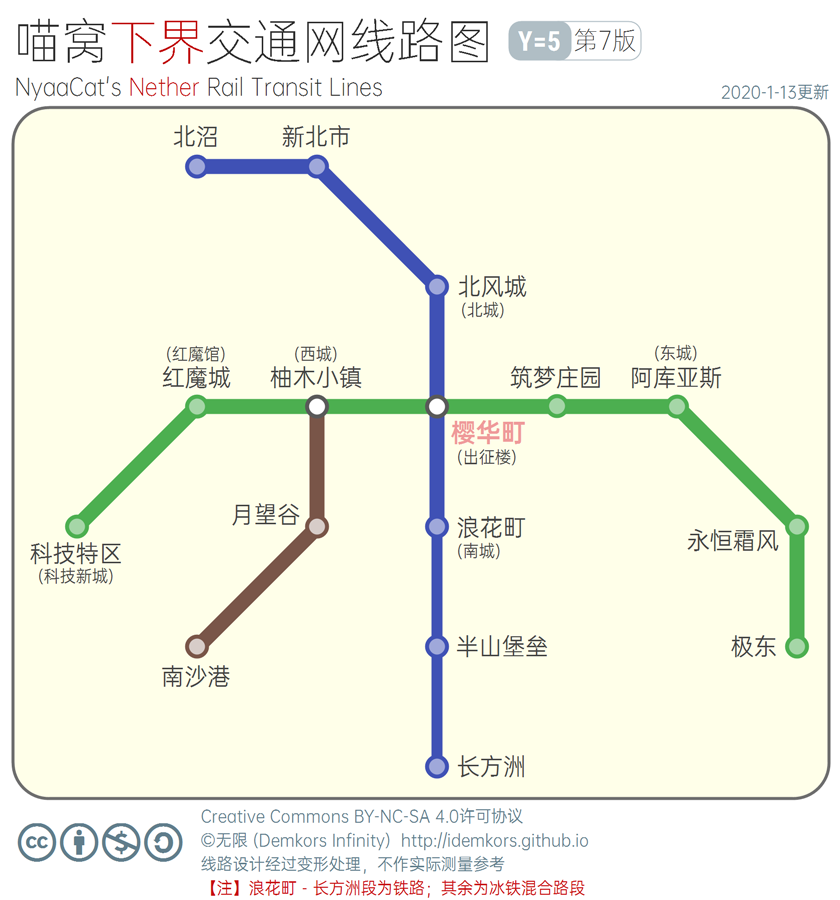
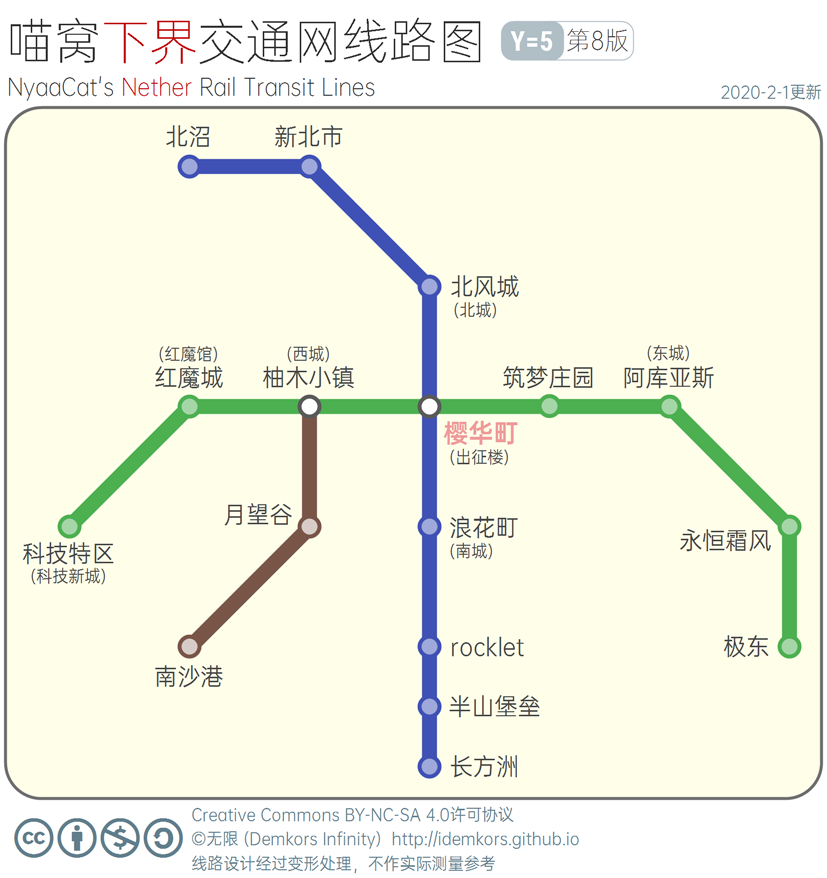
UPDATE Realms, Commands Help, rail maps, etc: 阿库亚斯 now represented as "AQUA'S"; 霖菓村 now comes subway system; identity "主城" removed from Realms List; map-nether-traffic updated; all Nether Transit Lines standardized; add /nick, /glist, etc; recent events recorded

Changed region(s): [[0.0, 0.0, 0.9976, 1.0], [0.6046, 0.0308, 0.786, 0.0615]]

diff --git a/nyaa/realms/aquas.md b/nyaa/realms/aquas.md
@@ -1,16 +1,16 @@
-# 阿库亚斯
+# AQUA'S
 
 -   **旧称：东方主城（简称“东城”）**
--   类型：主城，公共规划区
+-   类型：公共规划区
 -   范围：(1584, -172), (3162, 808)
 -   名誉城主：Cc  `Aqua_Cc`
     
 
 ## 城市简介
 
-阿库亚斯（AQUA'S）为喵窝五大主城之一，位居大神殿东方。
+AQUA'S*（读作：阿库亚斯）* 为喵窝原『五大主城』之一，位居大神殿东方，是著名的交通及文化中心。
 
-经历漫长的波折后，2018年3月10日，在水之女神 Cc·阿库娅 的诞生纪念日这一天，象征海洋与星空的东方主城重新开放。后改称现名。
+经历漫长的波折后，2018年3月10日，在水之女神 *Cc·阿库娅 `Aqua_Cc`* 的诞生纪念日这一天，象征海洋与星空的东方主城重新开放。后改称现名。
 
 ### 城市地图
 
@@ -18,7 +18,7 @@
 
 ### 海星城
 
-一日，魔法少女花灵来到了阿库亚斯北方的海域，召唤出了巨大反重力魔法阵。不久，海星城在魔法阵之上建成了。由于魔法阵的作用，建筑、花园、空中平台能够漂浮在空中。最初建造的阿库亚斯**市政厅**和**图书馆**就位于海星城内。在魔法阵的影响之下，阿库亚斯范围内还形成了数个**空中岛屿**。
+一日，魔法少女花灵来到了AQUA'S北方的海域，召唤出了巨大反重力魔法阵。不久，海星城在魔法阵之上建成了。由于魔法阵的作用，建筑、花园、空中平台能够漂浮在空中。最初建造的AQUA'S**市政厅**和**图书馆**就位于海星城内。在魔法阵的影响之下，AQUA'S范围内还形成了数个**空中岛屿**。
 
 海星城的建筑为幻想风格，多具有超常规的建筑结构。由于魔法阵的作用过于强大，建筑物的底部可能会因受力过大而碎裂。
 
@@ -28,7 +28,7 @@
 
 ### 米娜希尔港
 
-由海星城沿天梯一路走下，眼前就是阿库亚斯最为繁荣的港口——米娜希尔港。曾经的米娜希尔港只是位于南侧的小镇，但随着海星城的建立，越来越多的观光客来到了这里，从而极大促进了小镇与外邦的经济往来。随后建成的**风水商桥**则成为了整个港口的中心。曾经小镇的民居如今则作为**斯卡菠萝集市**而依旧繁荣，各家均会在一层开设商铺来吸引过往的旅客。
+由海星城沿天梯一路走下，眼前就是AQUA'S最为繁荣的港口——米娜希尔港。曾经的米娜希尔港只是位于南侧的小镇，但随着海星城的建立，越来越多的观光客来到了这里，从而极大促进了小镇与外邦的经济往来。随后建成的**风水商桥**则成为了整个港口的中心。曾经小镇的民居如今则作为**斯卡菠萝集市**而依旧繁荣，各家均会在一层开设商铺来吸引过往的旅客。
 
 米娜希尔港整体为蒸汽朋克风格，建筑密集，处处展现出工业化的气息。
 
@@ -52,28 +52,28 @@
 
 ### 交通
 
-阿库亚斯具有三个铁路站点，一个飞行塔，多个城内折跃点以及两个传送站。
+AQUA'S具有三个铁路站点，一个飞行塔，多个城内折跃点以及两个传送站。
 
 #### 铁路
 
-阿库亚斯连接西侧的一级铁路干线、南北的一级铁路环线以及东侧的二级铁路霜风线。铁路并不直接相连，它们接入阿库亚斯不同的位置。其中：
+AQUA'S连接西侧的一级铁路干线、南北的一级铁路环线以及东侧的二级铁路霜风线。铁路并不直接相连，它们接入AQUA'S不同的位置。其中：
 
--   **西侧干线接入一级铁路车站（即阿库亚斯站）；**<sup>*（暂称“东城站”）*</sup>
--   **北侧环线接入天池北侧（即阿库亚斯北站）；**<sup>*（暂称“东城北站”）*</sup>
--   **南侧环线和霜风线则接入二级铁路车站（即阿库亚斯南站）。**<sup>*（暂称“东城南站”）*</sup>
+-   **西侧干线**接入一级铁路车站（即阿库亚斯站）；
+-   **北侧环线**接入天池北侧（即阿库亚斯北站）；
+-   **南侧环线和霜风线**则接入二级铁路车站（即阿库亚斯南站）。
 
 除南侧铁路环线和霜风线之间的换乘可以直接在**阿库亚斯南站内**进行外，其余的换乘均需要出站换乘。
 
 #### 飞行塔
 
-飞行塔是位于阿库亚斯 一级铁路车站 旁的白色高楼。顶层 `(2210,131,225)`  提供三向（北/东/西）助跑起飞平台。
+飞行塔是位于AQUA'S 一级铁路车站 旁的白色高楼。顶层 `(2210,131,225)`  提供三向（北/东/西）助跑起飞平台。
 
 ?> :information_source: **【进入办法】**  
 走进高楼，至阶梯入口 `（2185,91,296）` ；上楼至第二层 `（2185,105,294）` ；右转，继续上楼，直到顶层。
 
 #### 折跃站
 
-折跃为阿库亚斯内部传送方式，用于城内诸片区之间以及城际传送。折跃点遍布阿库亚斯各地，集中于**二级铁路站（南站）**和**风水商桥**，**外形为末地折跃门**。
+折跃为AQUA'S内部传送方式，用于城内诸片区之间以及城际传送。折跃点遍布AQUA'S各地，集中于**二级铁路站（南站）**和**风水商桥**，**外形为末地折跃门**。
 
 其中，**风水商桥**提供通往樱华町和三大主城之城际折跃。
 
@@ -83,14 +83,14 @@
 
 ### 商业
 
-阿库亚斯的主要商铺位于**斯卡菠萝集市**和**风水商桥**。  
+AQUA'S的主要商铺位于**斯卡菠萝集市**和**风水商桥**。  
 其中，在风水商桥一层和二层共有 8 间店铺；而集市有 6 间独立店铺。集市有部分住房要求在一层开设商店。
 
-与大部分商店街不同，阿库亚斯的店铺**需要购买**。闲置的店铺在内部会有木牌表示，请在联系管理员后，按照屋内木牌的标价购买店铺。购买后请进行内部的装修。
+与大部分商店街不同，AQUA'S的店铺**需要购买**。闲置的店铺在内部会有木牌表示，请在联系管理员后，按照屋内木牌的标价购买店铺。购买后请进行内部的装修。
 
 ### 住宅
 
-阿库亚斯提供短期居住的驿站、可购买的成品房和自建区。
+AQUA'S提供短期居住的驿站、可购买的成品房和自建区。
 
 #### 驿站
 
@@ -98,7 +98,7 @@
 
 #### 成品房
 
-阿库亚斯范围内的大部分房屋均为可购买的成品房。它们位于：
+AQUA'S范围内的大部分房屋均为可购买的成品房。它们位于：
 
 -   海星城内；
 -   斯卡菠萝集市南部建筑群；
@@ -123,12 +123,12 @@
 
 #### 自建区
 
-阿库亚斯具有两片自建区——**洛戈尔恩平原**和**小鱼塘**。
+AQUA'S具有两片自建区——**洛戈尔恩平原**和**小鱼塘**。
 
 自建区要求**基于主要木框架建造房屋**。主要建材为木材、石砖。建筑高度不得超过飞艇底部（120格），围墙不要砌在路边台阶上、也不要高于 2 格（矮墙）。在小鱼塘不建议铺设围墙。
 
 可以挖掘自己地块水平线以下最深 8 格的区域作为地下室；更深层区域不允许挖掘。地下室不能超出自己地块范围。
 
-仅自建区周围的树木可以砍伐，砍伐后需要补种同种树木。**自建区范围外的树木禁止破坏**（包括树叶）。阿库亚斯全范围地下禁止挖矿。
+仅自建区周围的树木可以砍伐，砍伐后需要补种同种树木。**自建区范围外的树木禁止破坏**（包括树叶）。AQUA'S全范围地下禁止挖矿。
 
 自建区内符合要求的新住宅可获得最高 5 万节操的补贴。补贴最高额度在未来可能变更。

diff --git a/tutorial/help.md b/tutorial/help.md
@@ -95,7 +95,7 @@
 |`/nu lp rejectvanilla`<br />`/nu lp re` |开启战利品保护|拒绝原版物品，但按住 Shift 键仍可捡起|
 |`/nu lp includevanilla`<br />`/nu lp ac`|开启战利品保护|包括原版物品|
 |`/nu el`	|切换飞行动力开关	| |
-|`/nu mailbox create`	创建邮箱	|执行后，右键点击要用作收件箱的箱子||
+|`/nu mailbox create`		|创建邮箱|执行后，右键点击要用作收件箱的箱子|
 |`/nu mailbox remove`	|删除自己的邮箱	 ||
 |`/nu mailbox info`	|查看自己的邮箱信息	 ||
 |`/nu mailbox send` [玩家 ID]	|发送手中的物品	|收费|
@@ -110,8 +110,19 @@
 |`/nu exhibition unset`	|取消物品展示框保护	 ||
 |`/nu expcap store [经验值]`	|将指定数量的经验存储到附魔瓶里	|经验值为“all”时，存储身上所有经验|
 |`/nu expcap restore [经验值]`	|从附魔瓶提取指定数量的经验	|经验值为“all”时，提取所有经验|
-|`/nu sit`	|开启或关闭“席地而坐”	|仅支持半砖、楼梯、毛毯、床（在白天）|
+|`/nu sit`	|开启或关闭“席地而坐”	|仅支持台阶、楼梯、毛毯、床（在白天）|
 |`/nu se sign [行数] [内容]` | 预编辑手中的告示牌 |编辑后放置，直接点击“完成”|
 |`/mail send [玩家 ID] [正文]`	|向指定玩家发送私信	 |正文加玩家ID字数限制**244字**|
 |`/mail read`	|阅读新私信	 ||
 |`/mail clear`	|清空私信箱	 ||
+|`/nick [玩家ID] [昵称]` | 修改在主服务器的昵称 | 优先于游戏ID显示，但不影响之<br />昵称为“off”时，移除昵称 |
+
+
+## 服务器状态查询
+
+| 命令| 说明| 备注 |
+| - | - | - |
+|`/plist` |列出当前在主服务器的玩家||
+|`/glist` |列出在各个服务器的喵窝玩家|仅显示游戏ID|
+|`/tps` |显示服务器近10秒经过的游戏刻|每秒20刻为正常|
+|`/ping`|显示连接到服务器的延迟| 统计近10秒数据 |

diff --git a/nyaa/realms/linguo.md b/nyaa/realms/linguo.md
@@ -7,7 +7,8 @@
 -   位于雨林、针叶林之中的村落，建筑多使用木制或者砖石等材料。（但首先要还有地方修）
 -   远古时期在这里遗留下来的十棵巨树，被冠以 *起源·规则·丰饶·正直·存在·权利·平和·奇迹·魔法·科学* 之名，被霖菓村的村民视为神圣的存在。*~~（无神论者说不定可以挖开）~~*
 -   意外地，一条森林观光铁路修建了起来，是否会使得这个小村落面临与现代世界的融合呢？
-    
+
+
 -   近来，丛林中搭起了纵横交错的栈道——“千连回路”，方便了村民，也方便了慕名而来的游客。
 
 #### 想要入住？
@@ -23,8 +24,8 @@
 
 #### 公共服务
 
-近乎为零。村长家门前的田地仅可勉强维持温饱；**其余需求必须自理**。  
-所幸，**东北总站**可提供基本的合成、打铁、附魔、图书借阅、解决内急等服务。*~~（值班室可供借宿一宿）~~*
+**东北总站**可提供基本的合成、打铁、附魔、图书借阅、解决内急等服务。*~~（值班室可供借宿一宿）~~*  
+[村内地铁](https://bbs.nyaa.cat/d/1516 "好耶是新坑/ 霖菓村地铁完成计划")近期正在修建，并将逐步开放。
 
 *~~也许会推出羊驼代运行李、骑游项目~~*
 
@@ -32,5 +33,6 @@
 
 #### 你知道吗？
 
--   “科技之树”实际上位于动漫流行馆范围内。
--   东部（针叶林）在一级环线以东的部分，名义上不在本村范围内——即被视为“荒野”。
+-   “科技之树”实际上位于动漫流行馆领域内。
+-   东部（针叶林）在一级环线以东的部分，名义上不在本村领域内——即被视为“荒野”。
+- 东北总站原址位于北部海上，仍保留完整结构。据悉，有村民认为在该原址换乘稍显麻烦，遂于陆上选址重建站楼。

diff --git a/space/map-navi/railway-nether.md b/space/map-navi/railway-nether.md
@@ -21,8 +21,7 @@
 
 **由于以下原因，下界地铁存在一些限制：**
 
-1. 地铁南段由浪花町向南的站点，由于铺设时间较早，只有单条的双向自加速铁路，没有冰道。
-2. 由于建设时优先考虑采用既有的下界传送门与主世界进行连接，部分站点（如红魔城站、筑梦庄园站）的进、出站口有存在于特异位置之可能。详情如下：
+1. 由于建设时优先考虑采用既有的下界传送门与主世界进行连接，部分站点（如红魔城站、筑梦庄园站）的进、出站口有存在于特异位置之可能。详情如下：
 
 | 站点名称 | 主世界出入口位置 |
 | - | - |
@@ -35,12 +34,12 @@
 | 月望谷 | 居民区一期东侧山体内 |
 | 浪花町 | 站楼地下 |
 | 筑梦庄园 | 地道内 |
-| 阿库亚斯 | 一级车站以东 |
+| AQUA'S | 一级车站以东 |
 | 极东 | 南居民区某民宿内 |
 | 科技特区 | 太空电梯地下避难所 |
 | 南沙港 | 二期工程传送站内 |
 
-3. 同样，由于优先考虑与既有下界门进行对接，**部分城镇中没有下界门的，暂无相应站点**。同时，某些城镇与毗邻城镇间距离太近（如月望谷和QQ村等），~~依8:1举例换算关系难以进行站点隔离，仅针对较大的城镇设置了站点。~~  
+2. 同样，由于优先考虑与既有下界门进行对接，**部分城镇中没有下界门的，暂无相应站点**。同时，某些城镇与毗邻城镇间距离太近（如月望谷和QQ村等），~~依8:1举例换算关系难以进行站点隔离，仅针对较大的城镇设置了站点。~~<br />
 建设单位*无极限拉玛集团* 经过技术攻关，已可支持多个超近传送门相互隔离。然而，对于下界出口距离在**100米以内**的两个聚落，**一般仅设置一个站点**。
 
 > **实用资源**

diff --git a/nyaa/projects/nether-traffic.md b/nyaa/projects/nether-traffic.md
@@ -21,7 +21,7 @@
 
 ### 历史
 
-- 该工程最初于[2017年3月17日](https://bbs.nyaa.cat/d/954--)建成自南城到*霞羽* 家<sup>（后称“长方洲”）</sup>的试验路段，隧道宽、高为3米，仅铺设单条铁轨。  
+- 该工程最初于[2017年3月17日](https://bbs.nyaa.cat/d/954--)建成自浪花町到*霞羽* 家<sup>（后称“长方洲”）</sup>的试验路段，隧道宽、高为3米，仅铺设单条铁轨。  
 - 在此之前，*凤凰卷 `phoenixlzx`* 曾表达建设“下界城”之想法；试验路段公开时，其对*霞羽* 建议观望。[当年5月17日](https://bbs.nyaa.cat/d/987--)，其宣布放弃“下界城”规划，建设者因此放开手脚。  
 - 此后三个月间，建设工作如火如荼：加宽隧道与站台，在铁轨之下引入浮冰以支持行船，设置电梯以供出入。大部分路段皆在此时期建成通车。  
 - 2018年3月，经*无限* 提议，*霞羽* 铺设并开通新北市——北沼路段。此后一年半，未尝有新路段接入。
@@ -35,4 +35,5 @@
 - 8月21日至9月17日，*无限* 主持[延伸交通网至科技特区](https://bbs.nyaa.cat/d/1457)的工程。
 
 
-- 2020年1月，*无限* 与*花名 `AstroDreamer`* 主持新建月望谷——南沙港路段。
+- 2020年1月，*无限* 与*花名 `AstroDreamer`* 联合新建月望谷——南沙港路段。
+- 同月，*花名* 主持升级改造浪花町——长方洲路段，以达到现行标准。自此，除该路段三个站台之外，交通网全线统一了标准。

diff --git a/changelog.md b/changelog.md
@@ -5,8 +5,13 @@
 !> **此页尚需完善。**因原Wiki记录遗失，且维护者精力有限，本页或未记录所有事件。
 
 ## 2020
-### 2020-1-27【黑化世界回归】
-- 子服务器“无尽地狱”`inf`关闭。
+### 2020-1【黑化世界回归 & 若干小更新】
+- 据多人报告，NyaaUtils附魔命令不再可用。
+  + 所有超原版附魔书几乎丧失价值。
+- 31日，自定义昵称命令`/nick`开始支持非英文字符。~~颜文字使用可能~~
+
+
+- 27日，子服务器“无尽地狱”`inf`关闭。
 - 取而代之的是，隶属于主服务器的同名**维度**`inf`。
   + 当日，地形（含月耀城）被原样迁移，其它内容暂缺。有玩家在此发现了上古时期（2016年重建前）的阿库亚斯地图。
   + 次日，**黑化怪物回归**。
@@ -22,7 +27,7 @@
 - 玩家[调查](https://bbs.nyaa.cat/d/1507)后，估计在当日约19时，服务器的“游戏刻计时器”溢出、归零，致使“游戏天数”及“喵历”同步归零。
 
 
-- 12月19日约19时，“喵历”再次回归「0001年1月1日」，自此恢复正常纪年。
+- 12月19日约19时，“喵历”再次归零，显示「0001年1月1日」，自此恢复正常纪年。
 
 ### 2019-12-1【聚落群组计划】
 - *凤凰卷* [建议各聚落成立居委会](https://bbs.nyaa.cat/d/1497)，以便内部沟通、接纳新进居民。

diff --git a/nyaa/realms.md b/nyaa/realms.md
@@ -22,7 +22,7 @@
 
 ### 樱华町
 
-* 类型：主城，世界出生点，公共规划区
+* 类型：世界出生点，公共规划区
 * 范围：(-84, 12)至(547, 481)
 * 名誉城主：*凤凰卷 `phoenixlzx`*
 * 简介：
@@ -30,10 +30,12 @@
   * 新手村、出生点、交易中心
   * [介绍](nyaa/realms/sakurakacho.md)
 
-### 阿库亚斯
+### AQUA'S
+
+##### 读作：阿库亚斯
 
 * ***旧称：东方主城***
-* 类型：主城，公共规划区
+* 类型：公共规划区
 * 范围：(1936, -207)至(2704, 754)
 * 名誉城主：*Cc `Aqua_Cc`*
 * 简介：
@@ -45,7 +47,7 @@
 ### 浪花町
 
 * ***旧称：南方主城***
-* 类型：主城，公共规划区
+* 类型：公共规划区
 * 范围：(-472, 1642)至(1231, 3272)
 * 名誉城主：*點心 `Tim_So`, Maki `Maki_Banshee`*
 * 简介：
@@ -55,7 +57,7 @@
 ### 柚木小镇
 
 * ***旧称：西方主城***
-* 类型：主城，公共规划区
+* 类型：公共规划区
 * 范围：(-3424, -1036)至(-2056, 1116)
 * 名誉城主：*~浅羽家风筝 `yahagi1943`~，Cylin 喵 `OAO_miao`*
 * 简介：
@@ -65,7 +67,7 @@
 ### 北风城
 
 * ***旧称：北方主城***
-* 类型：主城，公共规划区
+* 类型：公共规划区
 * 范围：(-346, -2825)至(884, -1517)
 * 名誉城主：*`Kuroi_Kuroha`，~浅羽家风筝 `yahagi1943`~*
 * 简介：

diff --git a/nyaa/projects.md b/nyaa/projects.md
@@ -85,3 +85,16 @@
 
 材料自购。替换下来的材料可自用或销售。  
 有意接手者，请于[BBS帖子](https://bbs.nyaa.cat/d/1342--)报名投标。**薪酬面议。**
+
+### 建筑内饰工程：浪花町内饰博物馆
+
+内饰博物馆位于浪花町南部`(342, 3032)`，原为上古时期内饰竞赛的举办场地，展区尚有大量富余。现征集各式内饰，装点每个空地块。  
+工程要求：
+
+- 参考现实中宜家的布局，在过道两侧规划空间建造内饰。空间可自由规划，建筑整体未完成的部分可在改进的基础上继续建造。建筑风格不限，建材如无能力自备，可按需申请补贴。
+- 请不要修改他人的建筑。
+- 完成一片区的建筑后，请在入口处贴牌标明建筑者以及内容简介。
+
+参与活动的玩家均可根据建筑内容和质量，获得 **10,000 至 200,000 节操**或定制道具的奖励。
+
+?> :information_source: 你可以 `/server test` 切换到创造测试服务器，建造好一部分内容后通过 Litematica 计算材料消耗，然后再 `/server nyaa` 返回主世界收集/申请，然后打印出来。
